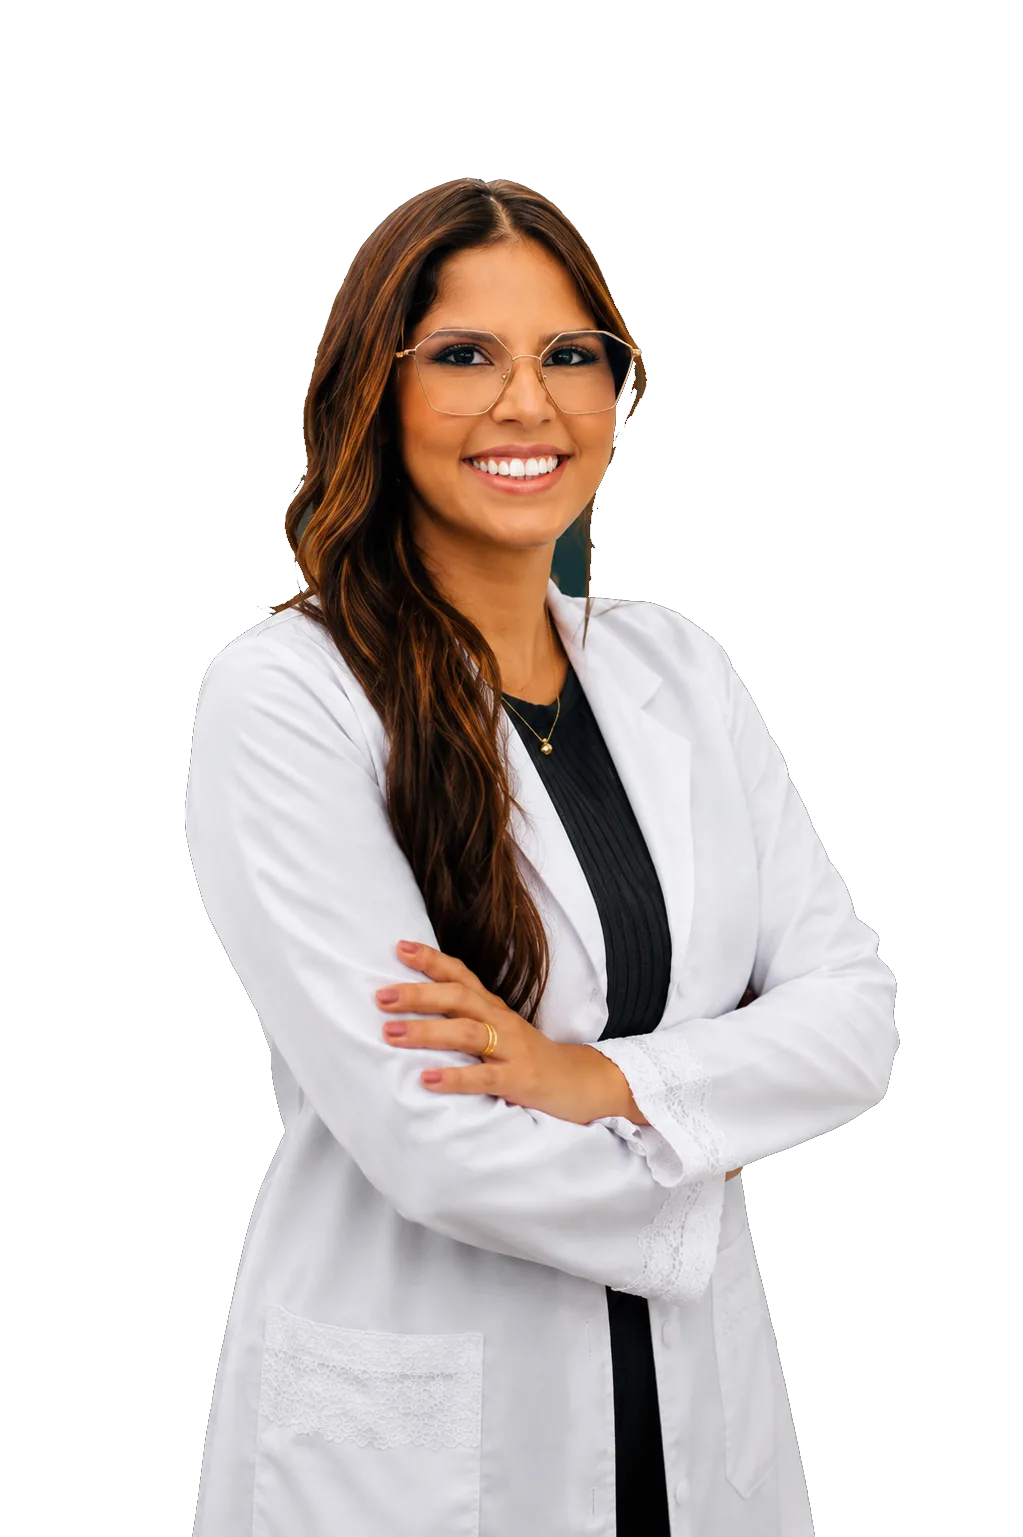
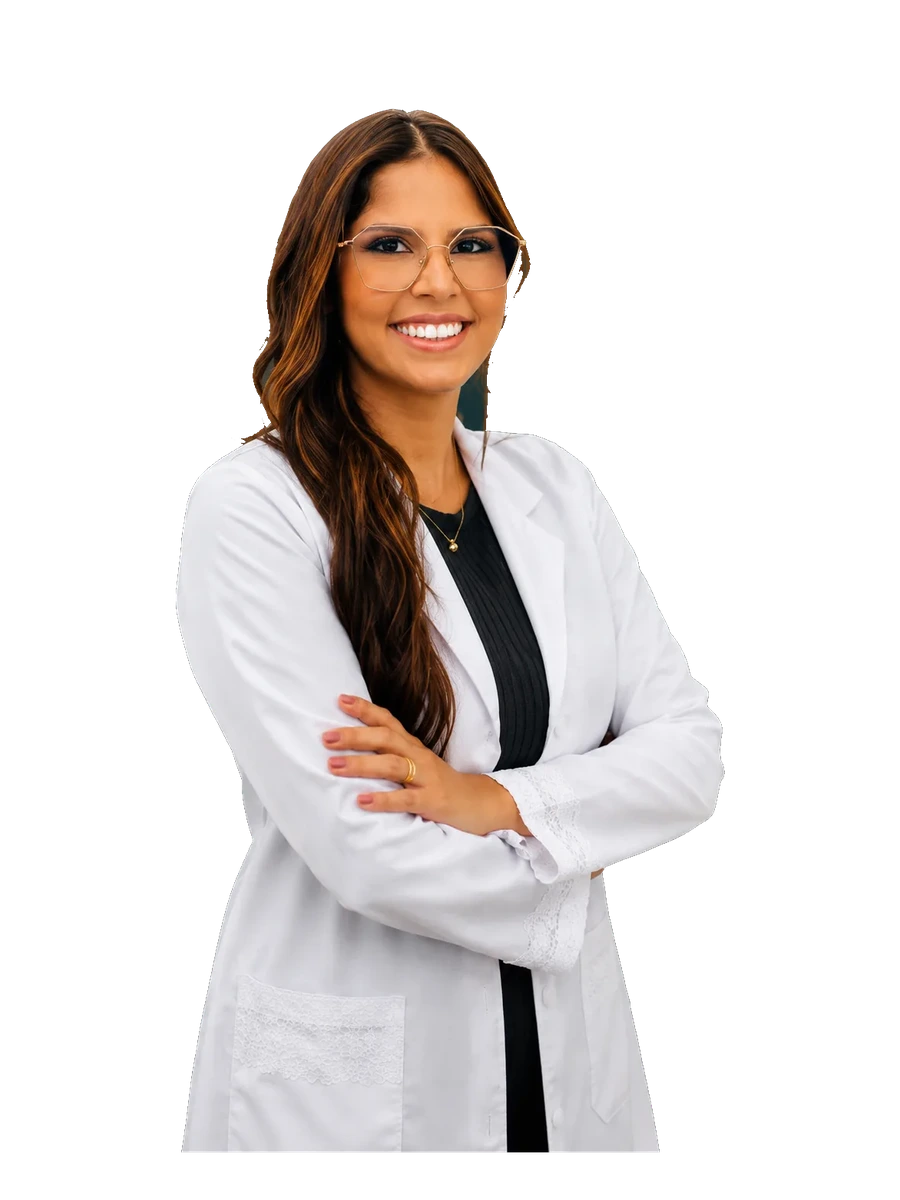
Padroniza fotos da equipe e adiciona borda dourada nos cards
As fotos dos professores tinham enquadramentos e zoom muito diferentes
entre si (algumas bem mais próximas/cortadas que outras), fazendo a
seção "Nossa Equipe" parecer desalinhada. Recorta e centraliza cada
foto num mesmo padrão de escala e enquadramento, com fundo uniforme.
Também adiciona borda dourada (var(--gold)) nos cards, conforme pedido.

Changed region(s): [[0.1556, 0.0925, 0.9022, 1.0], [0.2178, 0.7708, 0.2489, 0.8017]]

diff --git a/css/style.css b/css/style.css
@@ -690,7 +690,7 @@ section {
 
 .team-card {
   background: linear-gradient(180deg, var(--card) 0%, var(--bg-3) 100%);
-  border: 1px solid var(--card-border);
+  border: 1px solid var(--gold);
   border-radius: var(--radius-card);
   overflow: hidden;
   transition: transform 0.3s ease, border-color 0.3s ease, box-shadow 0.3s ease;
@@ -698,7 +698,7 @@ section {
 
 .team-card:hover {
   transform: translateY(-6px);
-  border-color: rgba(143, 201, 172, 0.5);
+  border-color: var(--gold-2);
   box-shadow: 0 24px 50px rgba(0, 0, 0, 0.35);
 }
 
